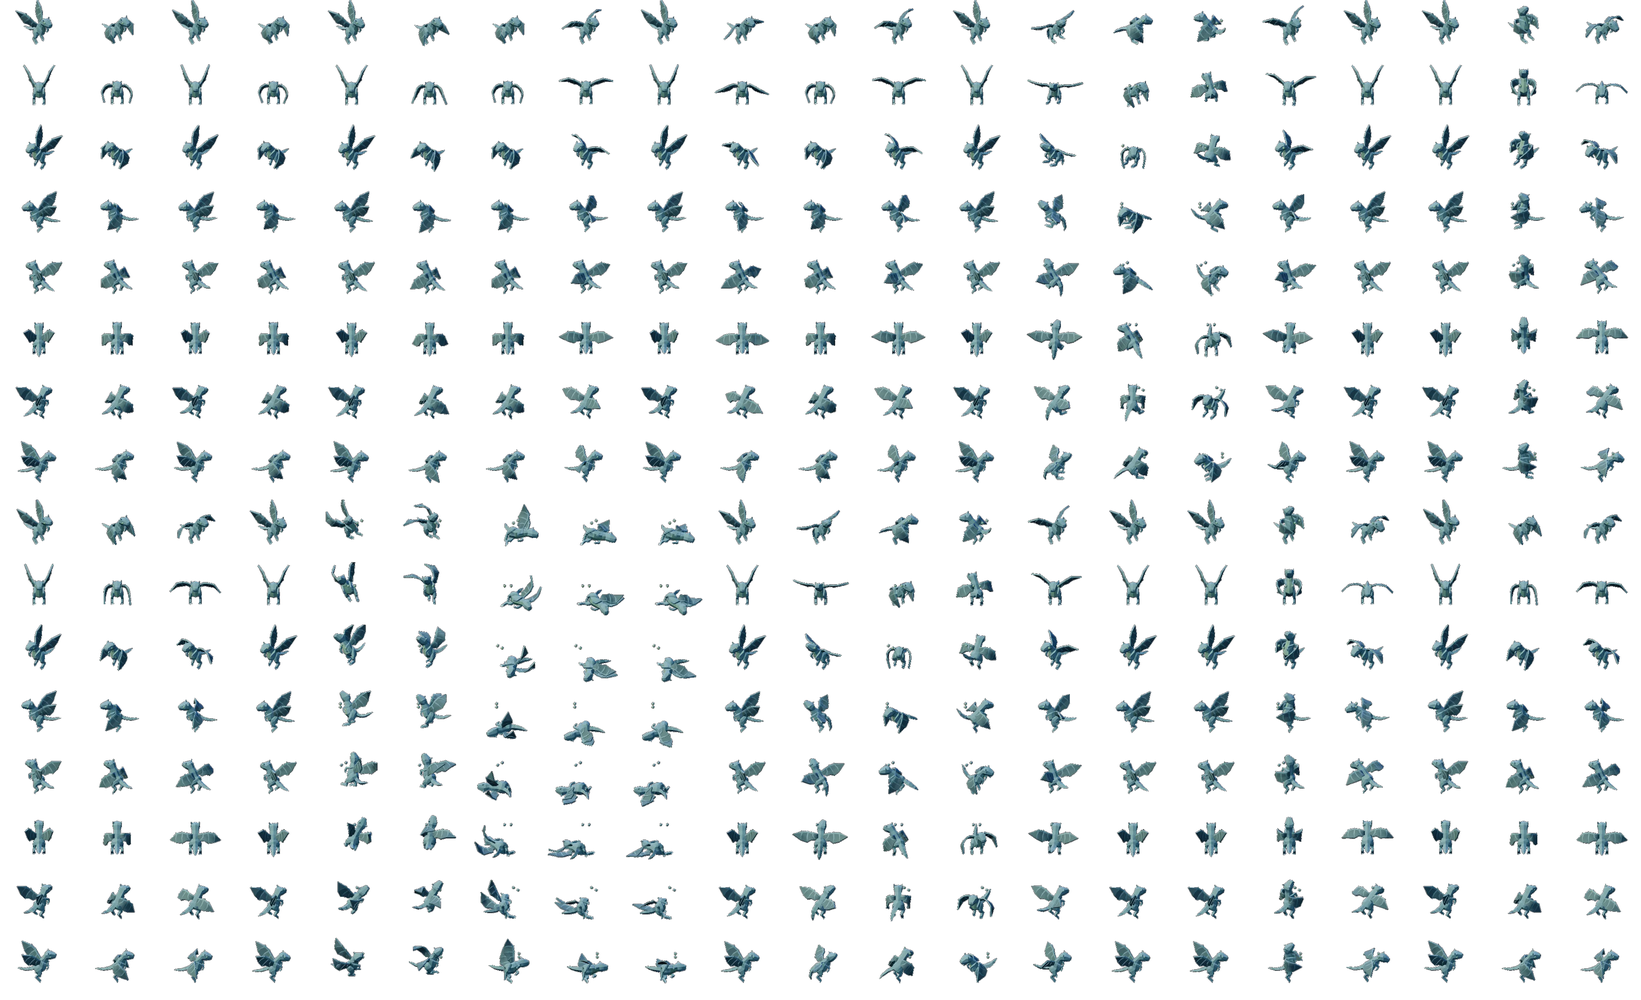
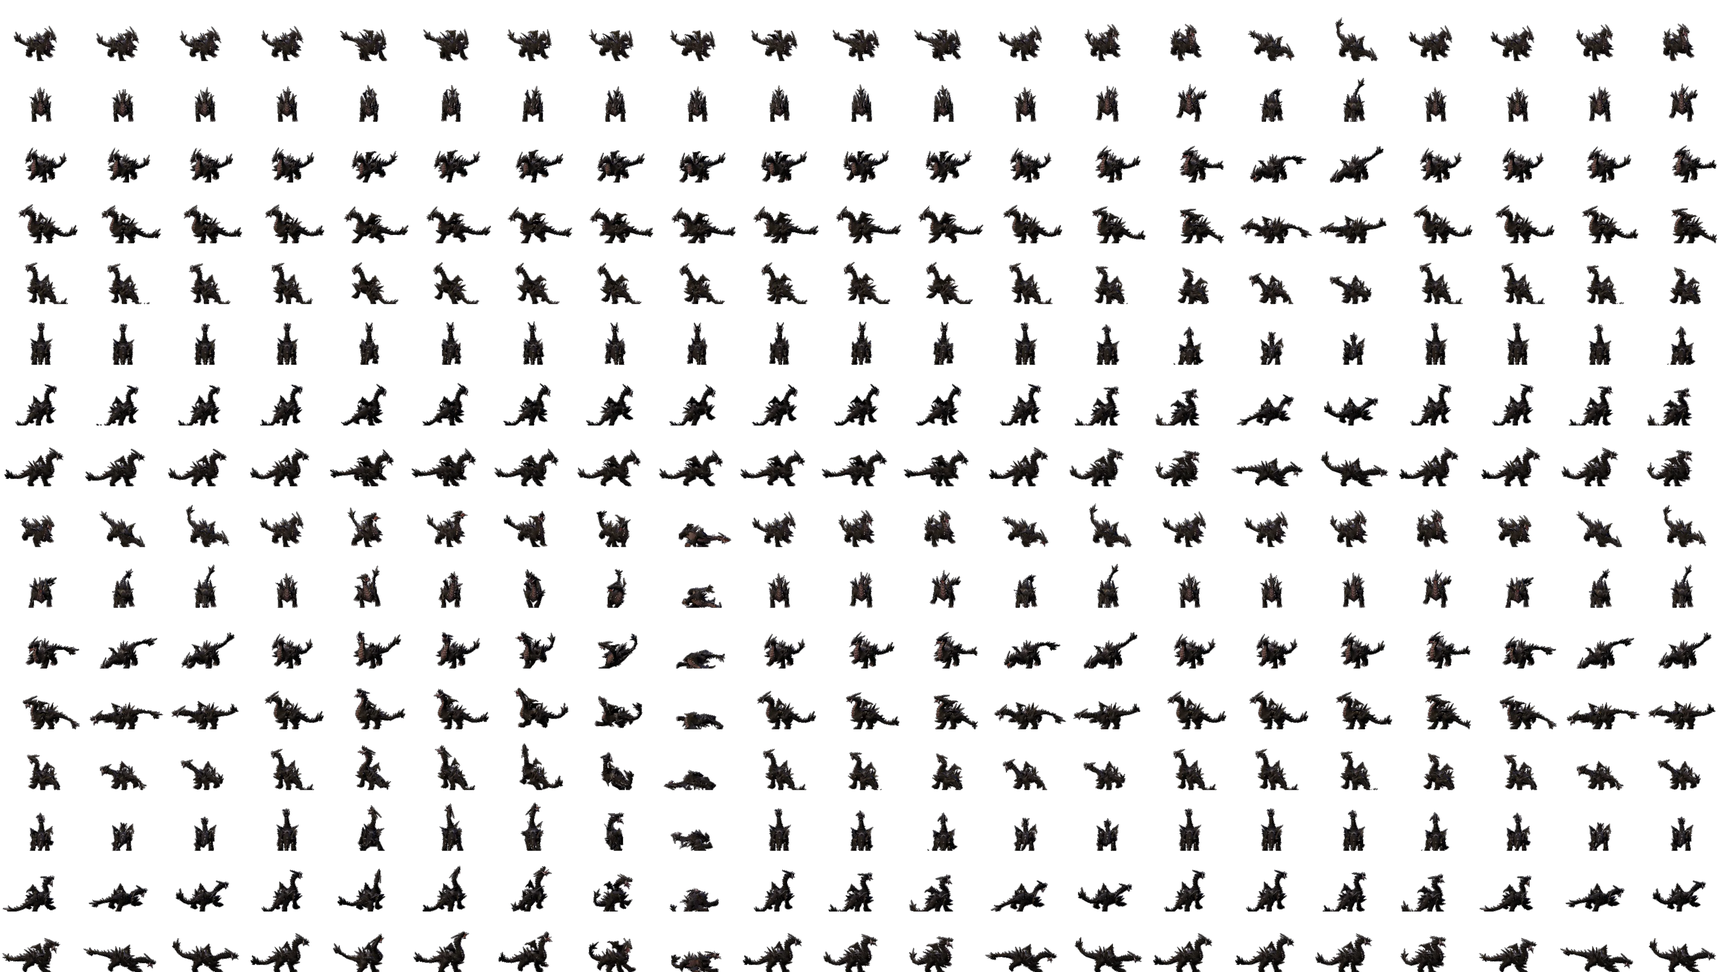
Substitui dragões por modelo sombrio CC0 e diferencia servos necromantes

Changed region(s): [[0.0, 0.0, 0.9989, 1.0]]

diff --git a/tools/sprites/pagina.ts b/tools/sprites/pagina.ts
@@ -1,4 +1,4 @@
-import { FBXLoader } from 'three/addons/loaders/FBXLoader.js';
+import { ColladaLoader } from 'three/addons/loaders/ColladaLoader.js';
 // Página da ferramenta de personagens (marco 32, 31/10/2026, D-131): roda no Chromium do Playwright e renderiza cada
 // receita (receitas.ts) num atlas: 8 direções (linhas) e os quadros de cada estado (colunas), no ângulo do isométrico
 // do jogo e com a luz do clima sombrio, como os objetos (tools/objetos/pagina.ts). O traje da Quaternius não tem rosto:
@@ -55,24 +55,42 @@ export interface SaidaAtlas {
 }
 
 const carregador = new GLTFLoader();
-// 02/11/2026: dragão CC0 do Animated Monster Pack, distribuído em FBX.
-const carregadorFbx = new FBXLoader();
-const cache = new Map<string, Promise<{ cena: THREE.Group; animacoes: THREE.AnimationClip[] }>>();
+// 02/11/2026: dragão CC0 de Cethiel/Drummyfish, com animações em Collada.
+const carregadorCollada = new ColladaLoader();
+const cache = new Map<string, Promise<{ cena: THREE.Object3D; animacoes: THREE.AnimationClip[] }>>();
 function carregar(url: string) {
   let p = cache.get(url);
   if (!p) {
-    p = url.endsWith('.fbx') ? carregadorFbx.loadAsync(url).then(cena => {
-      cena.traverse(o => { if (o instanceof THREE.Mesh) {
+    p = url.endsWith('.dae') ? carregadorCollada.loadAsync(url).then(async g => {
+      if (!g) throw new Error(`Collada inválido: ${url}`);
+      // Os clipes Collada referem UUIDs de cada arquivo; nomes dos ossos permitem
+      // reutilizá-los no corpo clonado, inclusive nas animações exportadas separadamente.
+      const animacoes = g.scene.animations.map(original => {
+        const clip = original.clone();
+        clip.name = 'padrao';
+        for (const track of clip.tracks) {
+          const separador = track.name.lastIndexOf('.');
+          const id = track.name.slice(0, separador);
+          const alvo = g.scene.getObjectByProperty('uuid', id);
+          if (alvo) track.name = alvo.name + track.name.slice(separador);
+        }
+        return clip;
+      });
+      g.scene.traverse(o => { if (o instanceof THREE.Mesh) {
         const converter = (m: THREE.Material) => {
-          const cores: Record<string, number> = { Main: 0xc5c0b5, Wings: 0x9d948a, Belly: 0xe9d2a4, Claws: 0xe6dfcf, Eyes: 0xffe09b };
-          const novo = new THREE.MeshStandardMaterial({ color: cores[m.name] ?? 0xc5c0b5, roughness: .8 });
+          const novo = new THREE.MeshStandardMaterial({ color: m instanceof THREE.MeshPhongMaterial || m instanceof THREE.MeshLambertMaterial ? m.color : 0xffffff, map: m instanceof THREE.MeshPhongMaterial || m instanceof THREE.MeshLambertMaterial ? m.map : null, roughness: .85, side: THREE.DoubleSide });
           novo.name = m.name;
           return novo;
         };
         const material = o.material as Mats;
         o.material = Array.isArray(material) ? material.map(converter) : converter(material);
       } });
-      return { cena, animacoes: cena.animations };
+      await Promise.all(malhas(g.scene).flatMap(m => materiais(m).map(async material => {
+        if (!(material instanceof THREE.MeshStandardMaterial)) return;
+        const imagem: unknown = material.map?.source.data;
+        if (imagem instanceof HTMLImageElement) await imagem.decode();
+      })));
+      return { cena: g.scene, animacoes };
     }) : carregador.loadAsync(url).then((g) => ({ cena: g.scene, animacoes: g.animations }));
     cache.set(url, p);
   }

diff --git a/tests/unit/cores-necromancia.test.ts b/tests/unit/cores-necromancia.test.ts
@@ -1,0 +1,55 @@
+// 02/11/2026: cor segue a origem da invocação, sem depender do jogador local.
+import { describe, expect, it } from 'vitest';
+import { conteudoOficial } from '../../src/core/conteudo';
+import { catalogoDeGeracao } from '../../src/world/gerador';
+import { criarEstado } from '../../src/core/estado';
+import { criarEntidade } from '../../src/entities/entidade';
+import { tintaDaInvocacao } from '../../src/render/cores-necromancia';
+
+function cenario(preset = 'esqueleto') {
+  const estado = criarEstado({ semente: 1, faseId: 'teste' });
+  const dono = criarEntidade({ id: 'dono', tipo: 'jogador', x: 1, y: 1 });
+  const servo = criarEntidade({ id: 'servo', tipo: 'invocacao', preset, x: 2, y: 1 });
+  servo.invocacao = { donoId: dono.id, expiraTick: 100, dominado: false, comportamento: 'agressivo', avatar: false, golpesRestantes: 0, abates: 0, criadoTick: 0, nivelDominacao: 0 };
+  estado.entidades.push(dono, servo);
+  return { estado, dono, servo };
+}
+
+describe('identidade visual dos servos', () => {
+  it('tinge de vermelho os servos e reanimados do jogador, mesmo sem o dono no recorte', () => {
+    const { estado, dono, servo } = cenario();
+    dono.classeId = 'necromante';
+    expect(tintaDaInvocacao(servo, estado)).toBe(0xff7777);
+    if (!servo.invocacao) throw new Error('sem invocação');
+    servo.invocacao.necromancia = 'reanimado';
+    estado.entidades.splice(0, 1);
+    expect(tintaDaInvocacao(servo, estado)).toBe(0xff7777);
+  });
+
+  it('preserva os servos negros do boss mesmo quando o dono saiu do recorte de rede', () => {
+    const { estado, dono, servo } = cenario('esqueleto_do_ossuario');
+    dono.preset = 'necromante_ancestral';
+    expect(tintaDaInvocacao(servo, estado)).toBe(0x37333d);
+    estado.entidades.splice(0, 1);
+    expect(tintaDaInvocacao(servo, estado)).toBe(0x37333d);
+  });
+
+  it('não altera inimigos comuns nem invocações de outras classes', () => {
+    const { estado, dono, servo } = cenario();
+    dono.classeId = 'aventureiro';
+    expect(tintaDaInvocacao(servo, estado)).toBeNull();
+    servo.invocacao = null;
+    expect(tintaDaInvocacao(servo, estado)).toBeNull();
+  });
+});
+
+
+it('o esqueleto exclusivo do boss não entra na população comum das fases', () => {
+  expect(catalogoDeGeracao(conteudoOficial(), []).comuns).not.toContain('esqueleto_do_ossuario');
+});
+
+it('um servo apropriado pelo necromante jogador assume a cor vermelha', () => {
+  const { estado, dono, servo } = cenario('esqueleto_do_ossuario');
+  dono.classeId = 'necromante';
+  expect(tintaDaInvocacao(servo, estado)).toBe(0xff7777);
+});

diff --git a/src/render/sprites.ts b/src/render/sprites.ts
@@ -1,3 +1,4 @@
+import { tintaDaInvocacao } from './cores-necromancia';
 import { tipoEm } from '../world/fase';
 // Marcadores das entidades: modelo de criatura (ou a imagem do jogador), anel de equipe sob os pés, barra
 // de HP, sub-barra de recurso, **barra de conjuração** (a telegrafia, §2.15), anel de alvo, anéis de
@@ -368,6 +369,10 @@ export class CamadaEntidades {
         direcao: { x: dtx / norma, y: dty / norma },
         angulo: Math.atan2(dty, dtx),
       });
+      const tintaInvocada = tintaDaInvocacao(e, estado);
+      if (m.figura3d) m.figura3d.raiz.tint = tintaInvocada ?? 0xffffff;
+      if (m.rig && tintaInvocada !== null) m.rig.raiz.tint = tintaInvocada;
+      m.silhueta.tint = tintaInvocada ?? 0xffffff;
       this.desenharChao(m, iso);
 
       const indicador = textoIndicador(e, estado.tick);
@@ -430,7 +435,8 @@ export class CamadaEntidades {
     m.rig.raiz.visible = true;
     if (!m.rig.raiz.parent) m.raiz.addChildAt(m.rig.raiz, m.raiz.getChildIndex(m.silhueta));
     // Marco 23 (D-092): o inimigo afim leva a cor do elemento (o extremo, mais forte).
-    const af = e.afinidade;
+    // Dragões mantêm as escamas negras mesmo quando o tema atribui afinidade.
+    const af = e.preset.startsWith('dragao_') ? undefined : e.afinidade;
     m.rig.raiz.tint = q.ajuste?.tinta != null ? misturarCor(0xffffff, q.ajuste.tinta, 0.75) : af && this.o.corElemento ? misturarCor(0xffffff, this.o.corElemento(af.elemento), af.extrema ? 0.6 : 0.42) : 0xffffff;
     // Marco 24 (D-098): o voo solto do falcão (altura, inclinação na curva e o tamanho no ombro).
     // Marco 32 (D-131): de cima, a altura do voo aparece menor (a câmera olha de cima; a sombra marca o chão).
@@ -515,7 +521,8 @@ export class CamadaEntidades {
     }
     const medidas = atlas.medidas(escolha.modelo);
     // Marco 23 (D-092): o inimigo afim leva a cor do elemento, como no token desenhado.
-    const af = e.afinidade;
+    // Dragões mantêm as escamas negras mesmo quando o tema atribui afinidade.
+    const af = e.preset.startsWith('dragao_') ? undefined : e.afinidade;
     const tinta = q.ajuste?.tinta != null ? misturarCor(0xffffff, q.ajuste.tinta, 0.75) : af && this.o.corElemento ? misturarCor(0xffffff, this.o.corElemento(af.elemento), af.extrema ? 0.6 : 0.42) : 0xffffff;
     const branca = !e.morto && (this.o.armaBranca?.(e, q.tick) ?? false);
     const pulso = q.reduzido ? 0.5 : 0.5 + 0.5 * Math.sin((2 * Math.PI * q.agoraMs) / PULSO_ARMA_MS);

diff --git a/tools/sprites/render.ts b/tools/sprites/render.ts
@@ -18,7 +18,7 @@ const RAIZ = join(import.meta.dirname, '..', '..');
 const B = join(RAIZ, '.brutos');
 /** O prefixo de cada pacote e a pasta dos arquivos dele (as texturas da Quaternius às vezes ficam numa irmã). */
 const PASTAS: Record<string, string[]> = {
-  dragao: [join(B, 'monstros', 'x', 'Animated Monster Pack by @Quaternius', 'FBX')],
+  cethiel: [join(B, 'dragao-realista', 'x')],
   base: [join(B, 'q-base', 'x', 'Universal Base Characters[Standard]', 'Base Characters', 'Godot - UE')],
   traje: [join(B, 'q-trajes', 'x', 'Modular Character Outfits - Fantasy[Standard]', 'Exports', 'glTF (Godot-Unreal)')],
   ual1: [join(B, 'q-anim', 'x', 'Universal Animation Library[Standard]', 'Unreal-Godot')],
@@ -36,7 +36,7 @@ const HOST = 'http://modelos.local/';
 function caminhoDe(ref: string): string {
   const [pacote = '', ...resto] = ref.split(':');
   const nome = resto.join(':');
-  if (pacote === 'dragao') return 'dragao/Dragon.fbx';
+  if (pacote.startsWith('cethiel_')) return `cethiel/dragon_${pacote.slice(8)}.dae`;
   if (pacote === 'ual1') return 'ual1/UAL1_Standard.glb';
   if (pacote === 'ual2') return 'ual2/UAL2_Standard.glb';
   if (pacote === 'kes-anim') return `kes/Animations/gltf/Rig_Medium/Rig_Medium_${nome === 'Movement' ? 'MovementBasic' : nome}.glb`;
@@ -49,6 +49,7 @@ function arquivoNoDisco(caminho: string): string | null {
   const [pacote = '', ...resto] = caminho.split('/');
   const rel = resto.join('/');
   const nome = resto[resto.length - 1] ?? '';
+  if (pacote === 'cethiel' && nome === 'dragon.png') return join(B, 'dragao-realista', 'x', 'dragon_black.png');
   for (const pasta of PASTAS[pacote] ?? []) {
     for (const f of [join(pasta, rel), join(pasta, nome)]) if (existsSync(f)) return f;
   }

diff --git a/src/render/presets-elementos.ts b/src/render/presets-elementos.ts
@@ -12,6 +12,7 @@ export type Material = (typeof MATERIAIS)[number];
 
 /** Os nomes dos presets deste arquivo: `mat_<material>` (impacto), `con_<material>` (conjuração), as auras e o resto. */
 export type NomePresetElemento =
+  | 'aura_dragao_fogo' | 'aura_dragao_gelo' | 'aura_dragao_raio' | 'aura_dragao_veneno'
   | `mat_${Material}`
   | `con_${Material}`
   | 'aura_queimando'
@@ -144,6 +145,11 @@ export const PRESETS_ELEMENTOS: Readonly<Record<NomePresetElemento, Lista>> = {
     { textura: 'faisca', quantidade: 14, vidaMs: [260, 420], velocidade: [140, 260], direcao: 'livre', gravidade: 60, escala: [0.8, 0.2], alpha: [1, 0], aditivo: true, raio: 4, cor: null, arrasto: 0.5 },
     { ...fumacaEscura, quantidade: 5 },
   ],
+  // 02/11/2026: energia elemental tênue ao redor do tronco dos dragões negros.
+  aura_dragao_fogo: [{ ...brasa, quantidade: 2, raio: 42, alturaInicial: 55, alpha: [.42, 0], escala: [.4, .06], velocidade: [5, 14], gravidade: -4, vidaMs: [800, 1200] }],
+  aura_dragao_gelo: [{ ...nevoaFria, quantidade: 1, raio: 42, alturaInicial: 55, alpha: [.18, 0], escala: [.65, 1.1], vidaMs: [900, 1400] }],
+  aura_dragao_raio: [{ ...arco, quantidade: 1, raio: 42, alturaInicial: 55, alpha: [.35, 0], escala: [.45, .3], vidaMs: [110, 200] }],
+  aura_dragao_veneno: [{ ...fumacaEscura, quantidade: 1, raio: 42, alturaInicial: 55, alpha: [.2, 0], escala: [.6, 1.1], cor: 0x6a9470, vidaMs: [900, 1400] }],
   // A Legião: a fumaça roxa que sobe do servo caído.
   dominio_legiao: [{ ...suga, quantidade: 10, raio: 24 }, { textura: 'runa', quantidade: 2, vidaMs: [700, 1000], velocidade: [8, 16], direcao: 'cima', gravidade: -6, escala: [0.5, 0.7], alpha: [0.8, 0], aditivo: true, raio: 10, cor: 0x9b59b6 }],
 };

diff --git a/src/render/efeitos-habilidade.ts b/src/render/efeitos-habilidade.ts
@@ -345,6 +345,17 @@ export class EfeitosDeHabilidade {
   }
 
   private auras(estado: EstadoJogo, agoraMs: number): void {
+    // 02/11/2026: a cor está na energia em volta das escamas negras, sem tingir o corpo.
+    const dragoes: Readonly<Record<string, NomePreset>> = { dragao_das_ruinas: 'aura_dragao_fogo', dragao_fogo: 'aura_dragao_fogo', dragao_gelo: 'aura_dragao_gelo', dragao_raio: 'aura_dragao_raio', dragao_veneno: 'aura_dragao_veneno' };
+    for (const e of estado.entidades) {
+      const aura = dragoes[e.preset];
+      if (e.morto || !aura) continue;
+      const chave = `dragao:${e.id}`;
+      if (agoraMs - (this.ultimaAura.get(chave) ?? -Infinity) < 360) continue;
+      this.ultimaAura.set(chave, agoraMs);
+      const pos = this.posicoes.get(e.id);
+      if (pos) this.o.particulas.emitir(aura, pos.x, pos.y, 0xffffff);
+    }
     for (const e of estado.entidades) {
       if (e.morto) continue;
       const status = e.efeitos.filter((f) => f.ateTick > estado.tick && REGISTRO_EFEITOS[f.tipo].ehStatus);
@@ -371,7 +382,7 @@ export class EfeitosDeHabilidade {
     // Marco 23 (D-092): o inimigo afim solta o elemento dele.
     for (const e of estado.entidades) {
       const a = e.afinidade;
-      if (e.morto || !a || !this.o.corElemento) continue;
+      if (e.morto || !a || dragoes[e.preset] || !this.o.corElemento) continue;
       const chave = `afinidade:${e.id}`;
       if (agoraMs - (this.ultimaAura.get(chave) ?? 0) < INTERVALO_AFINIDADE_MS) continue;
       this.ultimaAura.set(chave, agoraMs);

diff --git a/tools/sprites/receitas.ts b/tools/sprites/receitas.ts
@@ -323,9 +323,10 @@ export const RECEITAS: Receita[] = [
   },
 ];
 
-// 02/11/2026: variantes elementais do dragão CC0 de Quaternius.
-for (const [elemento, cor] of [['fogo', 0xff8a54], ['gelo', 0x75cfff], ['raio', 0xbda0ff], ['veneno', 0x8fda76]] as const) {
-  RECEITAS.push({ nome: `dragao_${elemento}`, corpo: 'dragao:Dragon.fbx', altura: 2.3, pxCelula: 36,
-    cores: { '': cor }, quadro: { largura: 5, altura: 4, baixo: 1.2 },
-    animacoes: { parado: 'dragao:DragonArmature|Dragon_Flying', andar: 'dragao:DragonArmature|Dragon_Flying', golpe: 'dragao:DragonArmature|Dragon_Attack', conjurar: 'dragao:DragonArmature|Dragon_Attack2', morte: 'dragao:DragonArmature|Dragon_Death' } });
+// 02/11/2026: dragão CC0 de Cethiel/Drummyfish, textura negra e anatomia detalhada.
+// A cor elemental vem da energia em volta do corpo, não das escamas.
+for (const elemento of ['fogo', 'gelo', 'raio', 'veneno'] as const) {
+  RECEITAS.push({ nome: `dragao_${elemento}`, corpo: 'cethiel:dragon.dae', altura: 3.3, pxCelula: 27,
+    exposicao: 2, cores: { '': 0xd9dbe2 }, quadro: { largura: 7, altura: 5.2, baixo: 1.5 },
+    animacoes: { parado: 'cethiel_idle:padrao', andar: 'cethiel_walk:padrao', golpe: 'cethiel_attack:padrao', conjurar: 'cethiel_attack:padrao', morte: 'cethiel_die:padrao' } });
 }

diff --git a/src/render/modelos/index.ts b/src/render/modelos/index.ts
@@ -43,10 +43,10 @@ export const ARMA_DE_CLASSE: Readonly<Record<keyof typeof OPCOES_JOGAVEIS, { arm
 };
 
 export const MODELOS = {
-  dragao_fogo: { estilo: 'deslizar', quadros: QUADROS_MEMBROS, membros: true, desenhar: dragao(0xcf663f) },
-  dragao_gelo: { estilo: 'deslizar', quadros: QUADROS_MEMBROS, membros: true, desenhar: dragao(0x75cfff) },
-  dragao_raio: { estilo: 'deslizar', quadros: QUADROS_MEMBROS, membros: true, desenhar: dragao(0xb395e8) },
-  dragao_veneno: { estilo: 'deslizar', quadros: QUADROS_MEMBROS, membros: true, desenhar: dragao(0x77b85a) },
+  dragao_fogo: { estilo: 'deslizar', quadros: QUADROS_MEMBROS, membros: true, desenhar: dragao(0x45474e) },
+  dragao_gelo: { estilo: 'deslizar', quadros: QUADROS_MEMBROS, membros: true, desenhar: dragao(0x45474e) },
+  dragao_raio: { estilo: 'deslizar', quadros: QUADROS_MEMBROS, membros: true, desenhar: dragao(0x45474e) },
+  dragao_veneno: { estilo: 'deslizar', quadros: QUADROS_MEMBROS, membros: true, desenhar: dragao(0x45474e) },
   necromante: { estilo: 'deslizar', quadros: QUADROS_MEMBROS, membros: true, desenhar: bipede(OPCOES_JOGAVEIS.necromante) },
   goblin: {
     estilo: 'passada',

diff --git a/src/render/cores-necromancia.ts b/src/render/cores-necromancia.ts
@@ -1,0 +1,14 @@
+// 02/11/2026: identidade das invocações, sem alterar relações de combate ou cores das barras.
+import type { EstadoJogo } from '../core/estado';
+import type { Entidade } from '../entities/entidade';
+
+export function tintaDaInvocacao(e: Entidade, estado: EstadoJogo): number | null {
+  const inv = e.invocacao;
+  if (!inv) return null;
+  const dono = estado.entidades.find(x => x.id === inv.donoId);
+  if (dono?.preset === 'necromante_ancestral') return 0x37333d;
+  if (inv.necromancia || (dono?.bolsa?.classeId ?? dono?.classeId) === 'necromante') return 0xff7777;
+  // Preset próprio preserva a identidade quando o dono saiu do recorte de rede.
+  if (e.preset === 'esqueleto_do_ossuario') return 0x37333d;
+  return null;
+}

diff --git a/src/assets/personagens/LICENCAS.md b/src/assets/personagens/LICENCAS.md
@@ -1,6 +1,6 @@
 # Personagens pré-renderizados
 
-**Versão:** 1.3 · **Data:** 02/11/2026 (1.1: as camadas de equipamento; 1.2: armas por desenho e grau, armadura por grau e as feras)
+**Versão:** 1.4 · **Data:** 02/11/2026 (1.1: as camadas de equipamento; 1.2: armas por desenho e grau, armadura por grau e as feras)
 
 Os atlas desta pasta são renderizados por `tools/sprites/render.ts` a partir de modelos 3D e animações de pacotes sob
 a licença **CC0 1.0 Universal** (domínio público). A licença está no arquivo de licença de cada pacote. Cada atlas tem
@@ -34,18 +34,29 @@ Lousberg (www.kaylousberg.com).
 | `armas/*` | geometria simples feita na ferramenta (`tools/sprites/armas3d.ts`), com as formas e cores dos desenhos do jogo |
 | `<classe>~cabeca-*`, `<classe>~corpo-*`, `<classe>~capa-*` | o capuz e o pano do traje (Quaternius) na cor da raridade; elmo, peitoral, ombreiras e capa feitos na ferramenta (`tools/sprites/armaduras3d.ts`) |
 
-## Dragões elementais (02/11/2026)
+## Dragões sombrios (02/11/2026, revisão 2)
 
-`dragao_fogo`, `dragao_gelo`, `dragao_raio` e `dragao_veneno` derivam de `FBX/Dragon.fbx`,
-**Animated Monster Pack by Quaternius**. Autor: Quaternius. Licença: CC0 1.0 Universal,
-confirmada no `License.txt` incluído no arquivo e nas páginas do autor:
-- https://quaternius.com/packs/animatedmonster.html
-- https://quaternius.itch.io/lowpoly-animated-monsters
-- https://opengameart.org/content/lowpoly-animated-monsters
+Os atlas `dragao_fogo`, `dragao_gelo`, `dragao_raio` e `dragao_veneno` agora derivam de
+**Cethiel's Dragon 3D**, substituindo o modelo anterior de Quaternius. Autores: **Drummyfish**
+(modelo, rig e animações 3D) e **Cethiel** (arte original e textura). Licença: **CC0 1.0**,
+confirmada na publicação do próprio autor e na ficha de sua animação no Wikimedia Commons:
+- https://opengameart.org/content/cethiels-dragon-3d
+- https://commons.wikimedia.org/wiki/File:3D_dragon_animation.gif
 
-Download: https://opengameart.org/sites/default/files/Animated%20Monster%20Pack%20by%20%40Quaternius.zip
-SHA-256 do pacote: acab2bddc5939f9b1b92c930507d73e0fd80037a39631cf2049bb6cfcaec1acd.
-As quatro variantes usam o mesmo rig com coloração distinta. Estados: voo parado/andar,
-Dragon_Attack (golpe), Dragon_Attack2 (conjurar), Dragon_Death (morte).
+Download: https://opengameart.org/sites/default/files/dragon_oga.zip
+SHA-256 do pacote: f6a8c25dd3b2abdb1e7830b0b88f9083052c0750e710e6439eceb320783a57c1.
+Arquivos usados: `dragon.dae`, `dragon_black.png`, `dragon_idle.dae`, `dragon_walk.dae`,
+`dragon_attack.dae` e `dragon_die.dae`. O pacote contém também os arquivos Blender de origem.
+O download não inclui um arquivo de licença separado; a declaração CC0 está na publicação do autor.
+Atribuição não é exigida; os créditos acima ficam registrados por cortesia.
+
+Porte de 3,3 células, escamas negras, energia elemental discreta adicionada em tempo real no
+renderizador do jogo. As quatro variantes compartilham a aparência do corpo; o elemento aparece
+nas brasas, névoa fria, arcos elétricos ou energia venenosa. Atlas de 3969×2240 pixels.
+Repouso, caminhada, ataque/conjuração e morte vêm dos respectivos arquivos Collada.
+A conversão preserva a textura e retargeteia as animações pelos nomes dos ossos, não pelos UUIDs.
 Geração: `npx tsx tools/sprites/render.ts --so dragao_fogo,dragao_gelo,dragao_raio,dragao_veneno --so-corpo`.
 O Necromante Ancestral reutiliza o atlas CC0 `necromante` já documentado acima.
+
+As invocações do necromante jogador recebem tonalidade avermelhada nas duas projeções;
+as do boss usam o preset exclusivo `esqueleto_do_ossuario`, negro mesmo sem o dono no recorte de rede.

diff --git a/docs/MUNDO.md b/docs/MUNDO.md
@@ -1,6 +1,6 @@
 # O Mundo: guia do modo
 
-**Versão:** 0.5 · **Data:** 02/11/2026
+**Versão:** 0.6 · **Data:** 02/11/2026
 
 > **Histórico**
 > - **0.5 (02/11/2026)**: marco 33: nove regiões com 1,5625x a área atual, 20 novas dungeons e missões, mapa com pontos pessoais e bosses elementais CC0.
@@ -175,6 +175,10 @@ cinco tipos. No exterior, a região perigosa tem dois encontros; nas normais há
 um encontro e nas seguras 5%, sempre fora das vilas e longe das chegadas. O sorteio é estável pela
 semente da região, para manter cliente/servidor iguais. Respawn segue o sistema de inimigos do Mundo.
 
-O dragão é o modelo CC0 animado de Quaternius, pré-renderizado em quatro variantes (3780×2304,
-abaixo de 4096 por dimensão); o necromante reutiliza o atlas CC0 existente. Fontes, hash do pacote,
+O dragão é o modelo CC0 animado de Cethiel/Drummyfish, com textura negra, porte de 3,3 células
+e energia elemental sutil ao redor do corpo, pré-renderizado em quatro atlas de 3969×2240
+(abaixo de 4096 por dimensão); o necromante reutiliza o atlas CC0 existente. Fontes, hash do pacote,
 licença e comando reprodutível em `src/assets/personagens/LICENCAS.md`.
+
+Revisão visual de 02/11/2026: servos do necromante jogador avermelhados e servos do boss negros,
+inclusive após o dono sair do recorte da rede. As relações e as regras de combate permanecem as mesmas.

diff --git a/docs/DECISOES.md b/docs/DECISOES.md
@@ -3620,3 +3620,13 @@ Bosses externos usam RNG separado e configuração de encontro no reino. Spawn l
 chegadas; chance estável pela semente para não divergir entre cliente e servidor. Quatro dragões
 com ataques/resistências elementais e um necromante com invocação de esqueletos. Modelo CC0 do
 dragão verificado no pacote oficial de Quaternius; licença e hash registrados junto aos atlas.
+
+
+## Dragão sombrio e cores dos servos — 02/11/2026 (versão 1)
+
+Revisão solicitada pelo produto: substituir o dragão de aparência cartunesca por uma anatomia
+mais detalhada. Selecionado Cethiel's Dragon 3D (Drummyfish/Cethiel), CC0 declarado pelo autor,
+rig e animações Collada, textura negra. A energia dos quatro elementos é uma emissão discreta
+em volta do corpo; as escamas ficam escuras. Porte de 3,3 células e atlas abaixo de 4096 pixels.
+Invocações do necromante jogador são avermelhadas; as do boss são negras. Um preset exclusivo
+de invocação preserva a cor do boss fora do recorte de rede, sem entrar no gerador de inimigos comuns.
